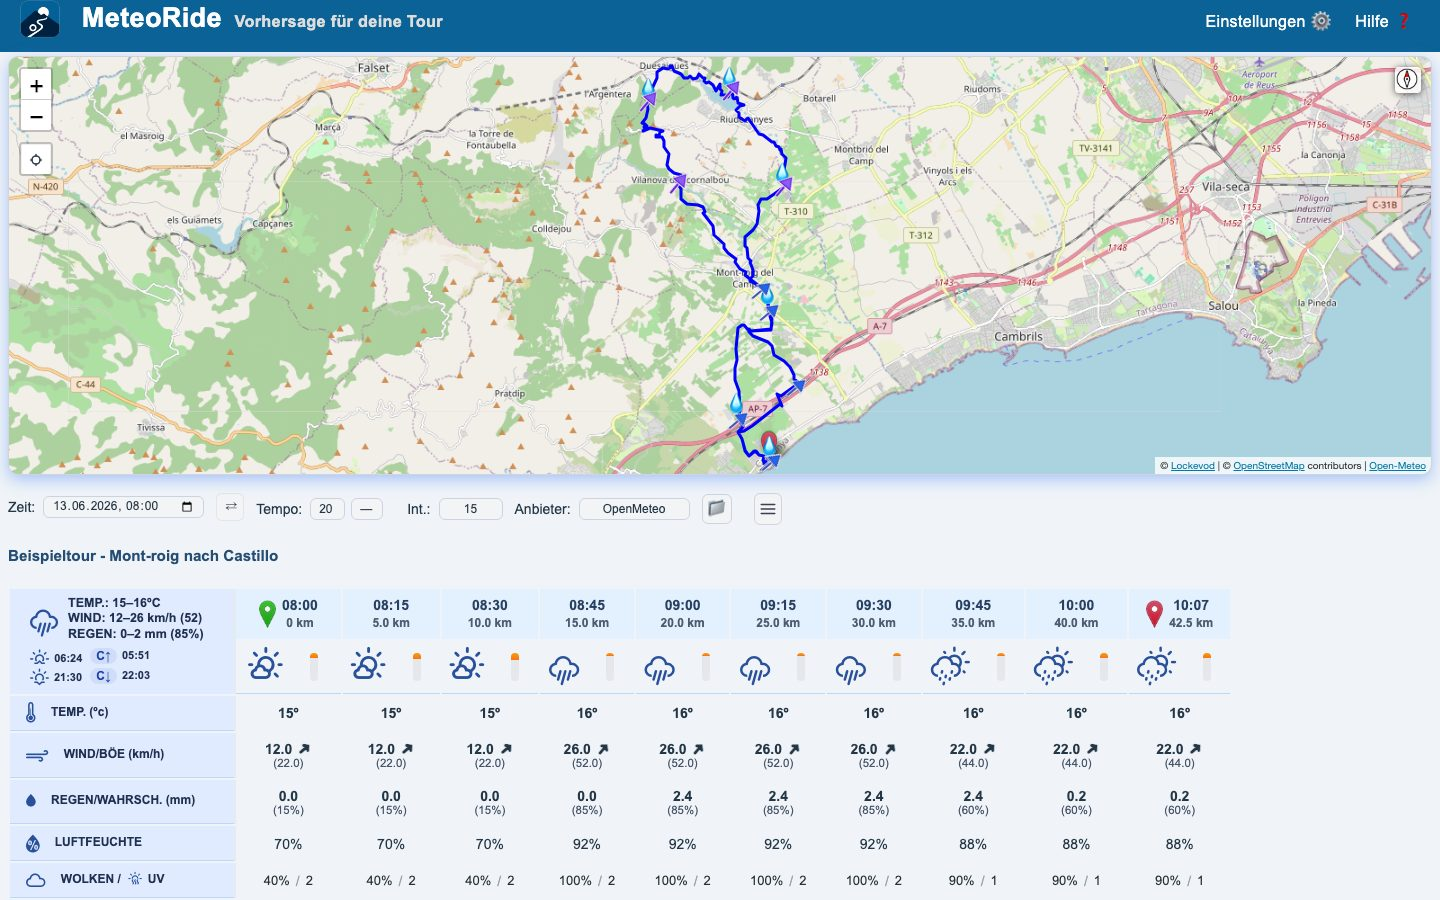
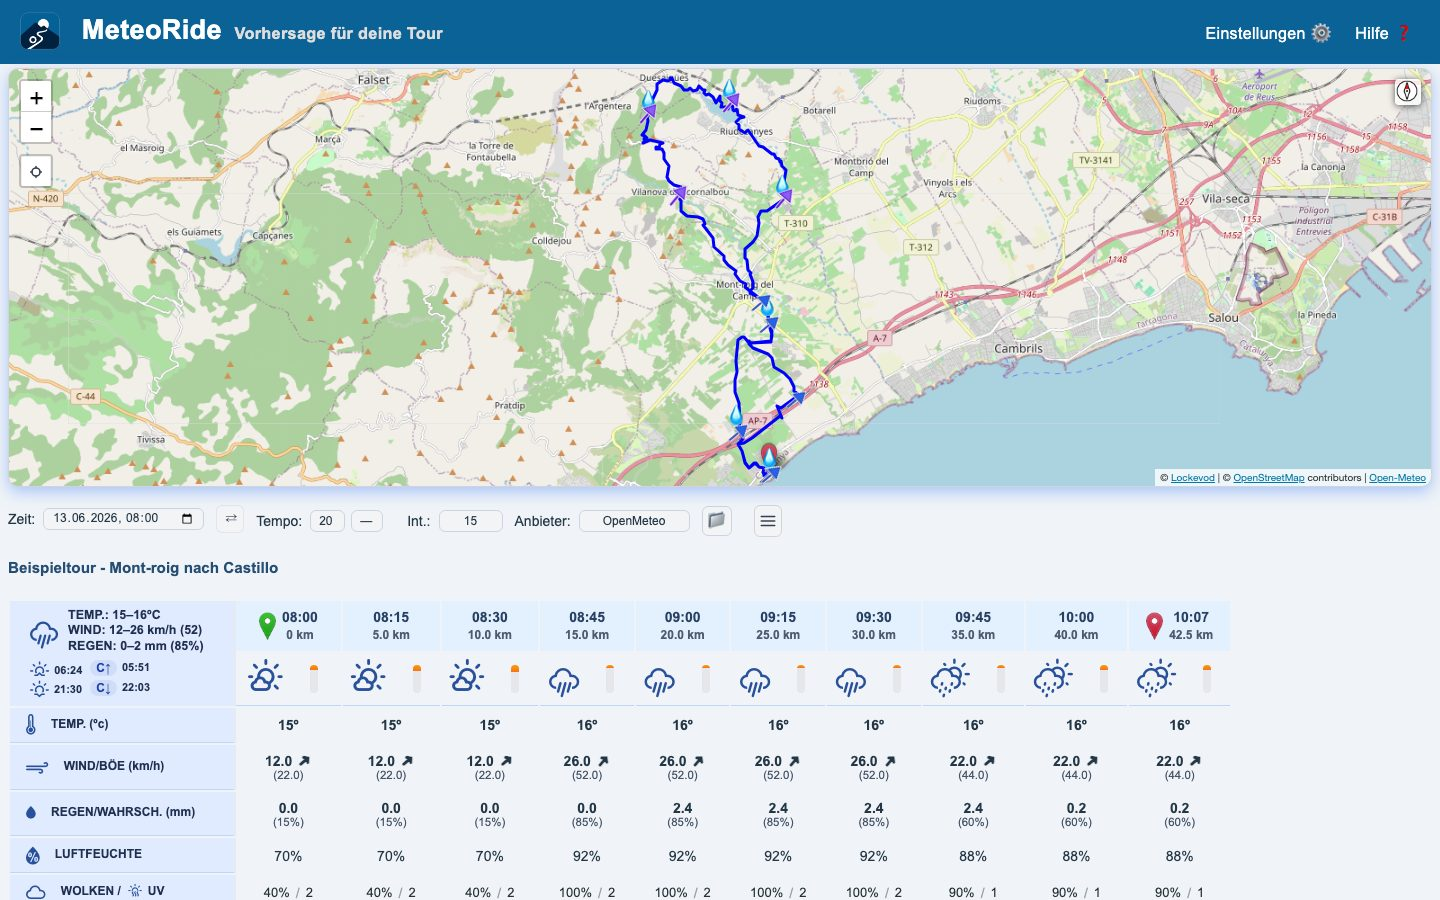
La web enlaza solo tiendas de App Store donde está la app y pasa a la app lo que llegaba al apex
La app no está en todas las tiendas (consulta a iTunes del 19/10): us, ca, au, nz,
in, be, lu, dk y ad dan 404. El inglés usa gb por defecto y site.js solo cambia a la
región del navegador si está en la lista. El selector de idioma de / manda a
app.meteoride.cc, con su consulta y fragmento, lo que antes abría la app en el apex:
una dirección con consulta o la app instalada. El nombre accesible de la insignia
es su texto visible (sin store_badge_label), la tarjeta de aviso nombra la ruta de
ejemplo como la app en cada idioma, la imagen principal lleva fetchpriority=high,
la web tiene el favicon de la app y las capturas de escritorio de la tabla ya no
recortan la cabecera.

diff --git a/site/template.html b/site/template.html
@@ -16,6 +16,7 @@
   <meta property="og:image:alt" content="{{alt_table}}">
   <meta name="twitter:card" content="summary_large_image">
   <meta name="theme-color" content="#070f1c">
+  <link rel="icon" href="/favicon.ico">
   <link rel="stylesheet" href="/styles.css">
   <script src="/site.js" defer></script>
 </head>
@@ -48,12 +49,12 @@
         <p class="pitch">{{hero_pitch}}</p>
         <div class="buttons">
           <a class="btn btn-primary" href="{{link.webApp}}">{{btn_web}}</a>
-          <a class="store" data-store href="{{link.appStore}}" aria-label="{{store_badge_label}}"><svg viewBox="0 0 120 40" width="120" height="40" aria-hidden="true" focusable="false"><rect x=".5" y=".5" width="119" height="39" rx="6.5" fill="#000" stroke="#a6a6a6"/><path transform="translate(8 7.6) scale(1.05)" fill="#fff" d="M12.152 6.896c-.948 0-2.415-1.078-3.96-1.04-2.04.027-3.91 1.183-4.961 3.014-2.117 3.675-.546 9.103 1.519 12.09 1.013 1.454 2.208 3.09 3.792 3.039 1.52-.065 2.09-.987 3.935-.987 1.831 0 2.35.987 3.96.948 1.637-.026 2.676-1.48 3.676-2.948 1.156-1.688 1.636-3.325 1.662-3.415-.039-.013-3.182-1.221-3.22-4.857-.026-3.04 2.48-4.494 2.597-4.559-1.429-2.09-3.623-2.324-4.39-2.376-2-.156-3.675 1.09-4.61 1.09zM15.53 3.83c.843-1.012 1.4-2.427 1.245-3.83-1.207.052-2.662.805-3.532 1.818-.78.896-1.454 2.338-1.273 3.714 1.338.104 2.715-.688 3.559-1.701"/><g fill="#fff" font-family="-apple-system, 'SF Pro Text', 'Helvetica Neue', Helvetica, Arial, sans-serif"><text x="36" y="16" font-size="7.6">{{store_badge_small}}</text><text x="35.5" y="30.5" font-size="15.2" font-weight="600" letter-spacing="-.3">{{store_badge_big}}</text></g></svg></a>
+          <a class="store" data-store href="{{link.appStore}}" aria-label="{{badge.label}}"><svg viewBox="0 0 120 40" width="120" height="40" aria-hidden="true" focusable="false"><rect x=".5" y=".5" width="119" height="39" rx="6.5" fill="#000" stroke="#a6a6a6"/><path transform="translate(8 7.6) scale(1.05)" fill="#fff" d="M12.152 6.896c-.948 0-2.415-1.078-3.96-1.04-2.04.027-3.91 1.183-4.961 3.014-2.117 3.675-.546 9.103 1.519 12.09 1.013 1.454 2.208 3.09 3.792 3.039 1.52-.065 2.09-.987 3.935-.987 1.831 0 2.35.987 3.96.948 1.637-.026 2.676-1.48 3.676-2.948 1.156-1.688 1.636-3.325 1.662-3.415-.039-.013-3.182-1.221-3.22-4.857-.026-3.04 2.48-4.494 2.597-4.559-1.429-2.09-3.623-2.324-4.39-2.376-2-.156-3.675 1.09-4.61 1.09zM15.53 3.83c.843-1.012 1.4-2.427 1.245-3.83-1.207.052-2.662.805-3.532 1.818-.78.896-1.454 2.338-1.273 3.714 1.338.104 2.715-.688 3.559-1.701"/><g fill="#fff" font-family="-apple-system, 'SF Pro Text', 'Helvetica Neue', Helvetica, Arial, sans-serif"><text x="36" y="16" font-size="7.6">{{store_badge_small}}</text><text x="35.5" y="30.5" font-size="15.2" font-weight="600" letter-spacing="-.3">{{store_badge_big}}</text></g></svg></a>
           <a class="btn" href="{{link.apk}}">{{btn_android}}</a>
         </div>
       </div>
       <div class="hero-devices">
-        <figure class="device-laptop"><img src="/img/shots/{{lang}}-table-desktop.jpg" alt="{{alt_hero_desktop}}" width="1440" height="900"></figure>
+        <figure class="device-laptop"><img src="/img/shots/{{lang}}-table-desktop.jpg" alt="{{alt_hero_desktop}}" width="1440" height="900" fetchpriority="high"></figure>
         <figure class="device-phone"><img src="/img/shots/{{lang}}-table-phone.jpg" alt="{{alt_hero_phone}}" width="390" height="844"></figure>
       </div>
     </section>
@@ -151,7 +152,7 @@
       <ul class="cards">
         <li class="card">
           <h3>{{ios_title}}</h3><p>{{ios_text}}</p>
-          <a class="store" data-store href="{{link.appStore}}" aria-label="{{store_badge_label}}"><svg viewBox="0 0 120 40" width="120" height="40" aria-hidden="true" focusable="false"><rect x=".5" y=".5" width="119" height="39" rx="6.5" fill="#000" stroke="#a6a6a6"/><path transform="translate(8 7.6) scale(1.05)" fill="#fff" d="M12.152 6.896c-.948 0-2.415-1.078-3.96-1.04-2.04.027-3.91 1.183-4.961 3.014-2.117 3.675-.546 9.103 1.519 12.09 1.013 1.454 2.208 3.09 3.792 3.039 1.52-.065 2.09-.987 3.935-.987 1.831 0 2.35.987 3.96.948 1.637-.026 2.676-1.48 3.676-2.948 1.156-1.688 1.636-3.325 1.662-3.415-.039-.013-3.182-1.221-3.22-4.857-.026-3.04 2.48-4.494 2.597-4.559-1.429-2.09-3.623-2.324-4.39-2.376-2-.156-3.675 1.09-4.61 1.09zM15.53 3.83c.843-1.012 1.4-2.427 1.245-3.83-1.207.052-2.662.805-3.532 1.818-.78.896-1.454 2.338-1.273 3.714 1.338.104 2.715-.688 3.559-1.701"/><g fill="#fff" font-family="-apple-system, 'SF Pro Text', 'Helvetica Neue', Helvetica, Arial, sans-serif"><text x="36" y="16" font-size="7.6">{{store_badge_small}}</text><text x="35.5" y="30.5" font-size="15.2" font-weight="600" letter-spacing="-.3">{{store_badge_big}}</text></g></svg></a>
+          <a class="store" data-store href="{{link.appStore}}" aria-label="{{badge.label}}"><svg viewBox="0 0 120 40" width="120" height="40" aria-hidden="true" focusable="false"><rect x=".5" y=".5" width="119" height="39" rx="6.5" fill="#000" stroke="#a6a6a6"/><path transform="translate(8 7.6) scale(1.05)" fill="#fff" d="M12.152 6.896c-.948 0-2.415-1.078-3.96-1.04-2.04.027-3.91 1.183-4.961 3.014-2.117 3.675-.546 9.103 1.519 12.09 1.013 1.454 2.208 3.09 3.792 3.039 1.52-.065 2.09-.987 3.935-.987 1.831 0 2.35.987 3.96.948 1.637-.026 2.676-1.48 3.676-2.948 1.156-1.688 1.636-3.325 1.662-3.415-.039-.013-3.182-1.221-3.22-4.857-.026-3.04 2.48-4.494 2.597-4.559-1.429-2.09-3.623-2.324-4.39-2.376-2-.156-3.675 1.09-4.61 1.09zM15.53 3.83c.843-1.012 1.4-2.427 1.245-3.83-1.207.052-2.662.805-3.532 1.818-.78.896-1.454 2.338-1.273 3.714 1.338.104 2.715-.688 3.559-1.701"/><g fill="#fff" font-family="-apple-system, 'SF Pro Text', 'Helvetica Neue', Helvetica, Arial, sans-serif"><text x="36" y="16" font-size="7.6">{{store_badge_small}}</text><text x="35.5" y="30.5" font-size="15.2" font-weight="600" letter-spacing="-.3">{{store_badge_big}}</text></g></svg></a>
         </li>
         <li class="card">
           <h3>{{android_title}}</h3><p>{{android_text}}</p>

diff --git a/site/site.js b/site/site.js
@@ -3,6 +3,9 @@
 (function () {
   var LANGS = ['es', 'en', 'ca', 'gl', 'eu', 'fr', 'de', 'it', 'pt'];
   var KEY = 'meteoride-site-lang';
+  // Storefronts that list the app (iTunes lookup for id6813109920, 2026-10-19). us, ca, au,
+  // nz, in, be, lu, dk and ad do not: their URL is a 404, so those keep the page's default.
+  var STOREFRONTS = ['gb', 'ie', 'es', 'mx', 'ar', 'co', 'cl', 'pe', 'fr', 'ch', 'de', 'at', 'it', 'pt', 'br', 'nl', 'se', 'no', 'fi', 'pl', 'cz', 'sk', 'hu', 'ro', 'gr'];
   var langs = navigator.languages && navigator.languages.length ? navigator.languages : [navigator.language || ''];
 
   // Storage can be blocked (private mode, site data off): then it is simply not used.
@@ -19,6 +22,12 @@
   }
 
   if (document.body.classList.contains('chooser')) {
+    // meteoride.cc was the app until the site took it: a link with a query (?gpx_url=, a
+    // share) or an installed copy of the app opening it goes on to the app, not the site.
+    if (location.search || matchMedia('(display-mode: standalone)').matches || navigator.standalone) {
+      location.replace('https://app.meteoride.cc/' + location.search + location.hash);
+      return;
+    }
     location.replace('/' + chooseLanguage(stored(), langs) + '/');
     return;
   }
@@ -28,11 +37,13 @@
     if (a && LANGS.indexOf(a.getAttribute('hreflang')) >= 0) remember(a.getAttribute('hreflang'));
   });
 
-  // en-GB → gb, es-MX → mx; es-419 or a bare "en" keep the page's default country.
+  // en-GB → gb, es-MX → mx; es-419, a bare "en" or a storefront without the app (en-US) keep
+  // the page's default country.
   var region = /-([a-z]{2})(?:-|$)/i.exec(langs[0] || '');
-  if (region) {
+  var cc = region && region[1].toLowerCase();
+  if (cc && STOREFRONTS.indexOf(cc) >= 0) {
     document.querySelectorAll('a[data-store]').forEach(function (a) {
-      a.href = a.href.replace(/(apps\.apple\.com\/)[a-z]{2}\//, '$1' + region[1].toLowerCase() + '/');
+      a.href = a.href.replace(/(apps\.apple\.com\/)[a-z]{2}\//, '$1' + cc + '/');
     });
   }
 

diff --git a/AGENTS.md b/AGENTS.md
@@ -475,7 +475,7 @@ app.meteoride.cc and deployed as its own Cloudflare Pages project (build
 `docs/DEPLOY.md`). `build.mjs` fills `template.html` from `i18n/<code>.json` for the nine
 languages (every string HTML-escaped, a missing key stops the build), writes the chooser at
 `/` (`site.js` picks the language: a stored choice, then the browser's, else `en`), the
-sitemap with `xhtml:link` alternates, and copies `styles.css`, `site.js`, `img/`, `_headers`
+sitemap with `xhtml:link` alternates, and copies `styles.css`, `site.js`, `favicon.ico` (the app's), `img/`, `_headers`
 and `robots.txt`. `mobile/tests/site.test.mjs` and `describe('the product site')` in
 `smoke.spec.mjs` cover it, inside `npm test`.
 
@@ -483,6 +483,23 @@ and `robots.txt`. `mobile/tests/site.test.mjs` and `describe('the product site')
   `src`/stylesheet/script/image from another origin; `site/_headers` sends
   `default-src 'self'` with no host and no `unsafe-inline`, and the test fails on either.
   Links out (App Store, GitHub, the app) are fine.
+- **App Store links name a storefront the app is in.** The country-less URL is a 404, and so
+  is one for a storefront without the app: us, ca, au, nz, in, be, lu, dk and ad (iTunes
+  lookup for id6813109920, 19/10). The default for `en` is therefore `gb`, not `us`;
+  `site.js` swaps in the browser's region only when it is in its `STOREFRONTS` list
+  (dated); re-check that list with `https://itunes.apple.com/lookup?id=6813109920&country=<cc>`
+  when the app's availability changes.
+- **The chooser at `/` hands the old apex traffic to the app.** meteoride.cc used to be the
+  app, so `/` with any query (`?gpx_url=`, a share) or opened as an installed app
+  (`display-mode: standalone`, iOS `navigator.standalone`; the PWA's `start_url` is `/`)
+  `location.replace`s to `https://app.meteoride.cc/` + query + hash instead of picking a
+  language. What the app stored on the apex origin (settings, API key, recent routes)
+  stays there: another origin cannot read it, accepted (`docs/DEPLOY.md`).
+- **The badge's accessible name is its visible text**, `store_badge_small` + `store_badge_big`
+  joined by `build.mjs` (no space after an apostrophe: «l'App Store»); there is no separate
+  label string to translate. The notification card names the example route with the app's own
+  `example_route_name` (utils.js for es/en, `lang-<code>.js` for the rest), read like
+  `watch-rules.js`.
 - **The old landings** (`app.meteoride.cc/<code>/<slug>`) left `public/`; `public/_redirects`
   301s each, with and without the trailing slash, to `https://meteoride.cc/<code>/`.
 - **The example-route call to action is `https://app.meteoride.cc/?example`**, not a
@@ -502,6 +519,9 @@ and `robots.txt`. `mobile/tests/site.test.mjs` and `describe('the product site')
   layout moves the map. The clock is fixed (`page.clock.install`), so two runs are
   byte-identical; `setFixedTime` freezes Leaflet's tile fade and leaves a grey map. Each shot
   stays under 300 KB (the test checks size, JPEG frame and language).
+  Every desktop shot except the map's is taken scrolled to the top: scrolling the table into
+  view cut the header by 12 px (19/10). A re-shoot can drift a few bytes on a shot that did
+  not change (gl-warning-desktop did, 33 bytes, same picture): keep the committed one.
 
 ## Gotchas found the hard way
 
